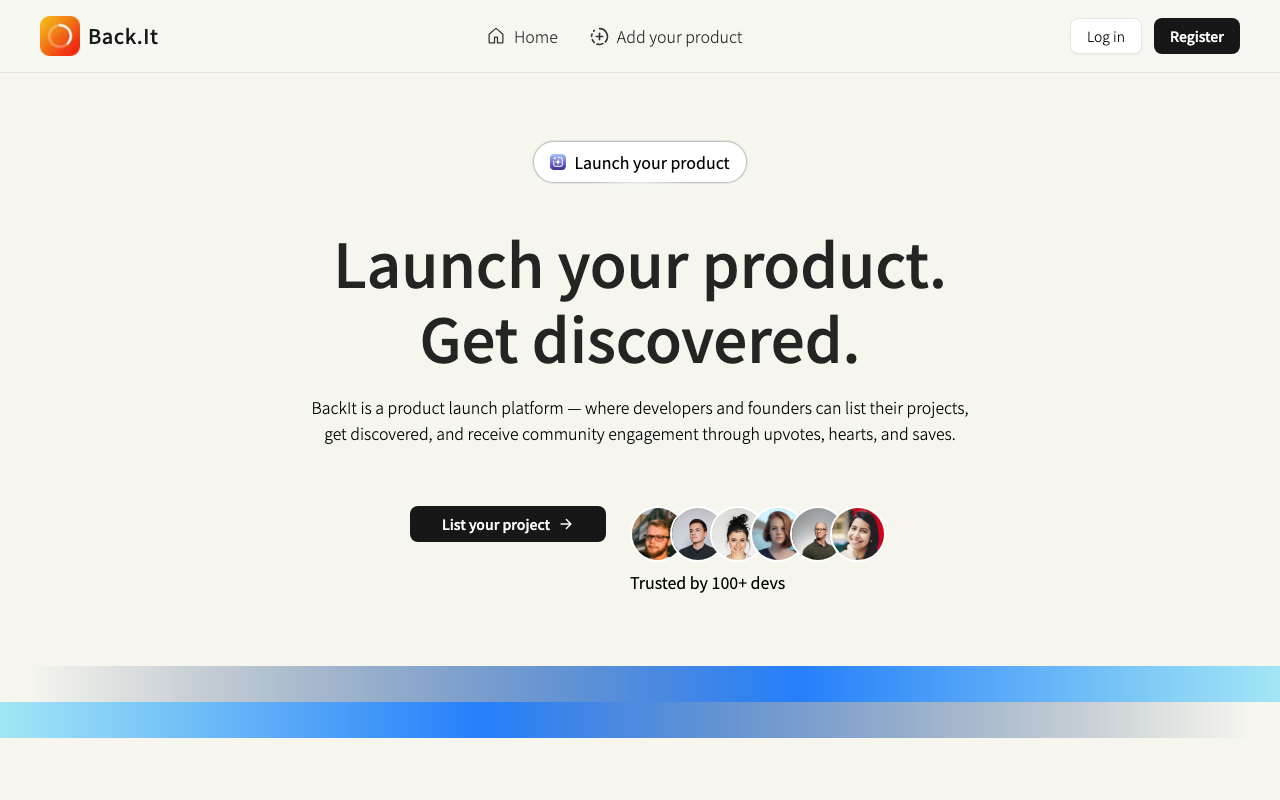
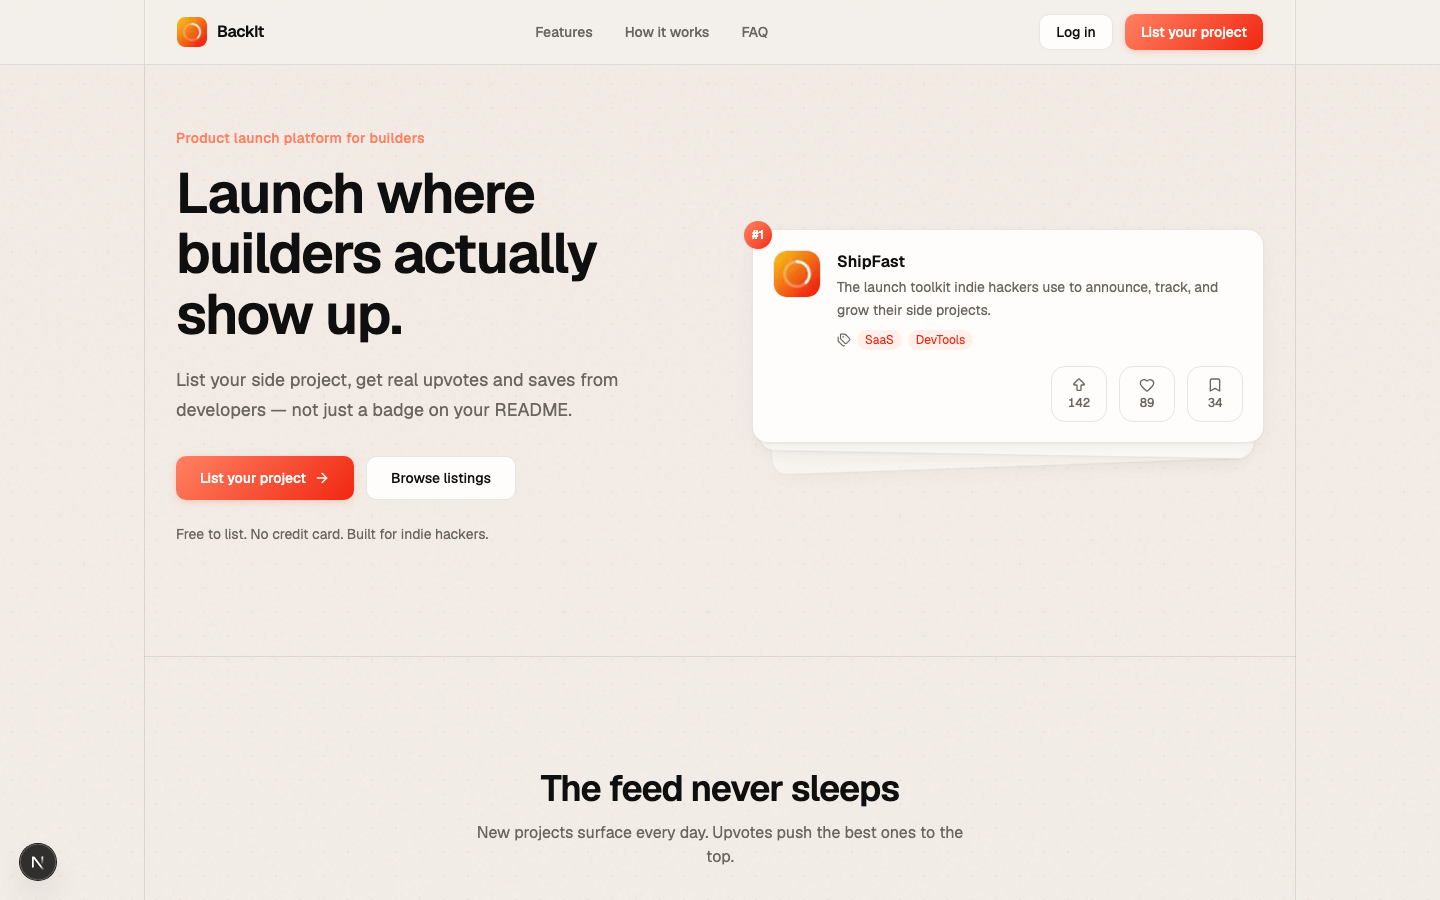
Refresh README previews and add screenshot capture tooling.
Update docs for the paper-design rollout with six new preview images, Geist/feature copy, and a Playwright script to regenerate screenshots.

diff --git a/README.md b/README.md
@@ -1,6 +1,6 @@
 <div align="center">
 
-<img src="public/BackIt.svg" alt="BackIt" width="72" />
+<img src="public/BackIt.png" alt="BackIt" width="72" />
 
 # BackIt
 
@@ -32,6 +32,16 @@ A product launch platform where developers and founders list projects, get disco
     <td><img src="docs/screenshots/listings.png" alt="BackIt listings feed" width="100%" /></td>
     <td><img src="docs/screenshots/signin.png" alt="BackIt sign in page" width="100%" /></td>
   </tr>
+  <tr>
+    <td align="center"><strong>Profile</strong></td>
+    <td align="center"><strong>Saved</strong></td>
+    <td align="center"><strong>Upload project</strong></td>
+  </tr>
+  <tr>
+    <td><img src="docs/screenshots/profile.png" alt="BackIt user profile" width="100%" /></td>
+    <td><img src="docs/screenshots/saved.png" alt="BackIt saved projects" width="100%" /></td>
+    <td><img src="docs/screenshots/upload.png" alt="BackIt upload project modal" width="100%" /></td>
+  </tr>
 </table>
 
 ## Features
@@ -43,11 +53,11 @@ A product launch platform where developers and founders list projects, get disco
 - **User profiles** — dashboard with engagement stats and your listed projects
 - **Saved projects** — bookmark projects and revisit them later
 - **Authentication** — JWT in httpOnly cookies with bcrypt-hashed passwords
-- **Dark mode** — system-aware theme with manual toggle
+- **Paper-style UI** — Geist typography, coral accent palette, and grid-frame layout across landing, auth, and dashboard
 
 ## Tech Stack
 
-Built with Next.js 16 App Router, React 19, TypeScript, Tailwind CSS 4, Prisma 7, PostgreSQL (Neon), TanStack Query, shadcn/ui, Zod, and Motion.
+Built with Next.js 16 App Router, React 19, TypeScript, Tailwind CSS 4, Geist, Prisma 7, PostgreSQL (Neon), TanStack Query, shadcn/ui, Zod, and Motion.
 
 <div align="center">
 
@@ -99,6 +109,9 @@ Open [http://localhost:3000](http://localhost:3000) in your browser.
 |----------|----------|-------------|
 | `DATABASE_URL` | Yes | PostgreSQL connection string (Neon recommended) |
 | `JWT_SECRET` | Yes | Secret for signing and verifying JWT tokens |
+| `SCREENSHOT_EMAIL` | No | Test account email for `bun run screenshots` |
+| `SCREENSHOT_PASSWORD` | No | Test account password for `bun run screenshots` |
+| `SCREENSHOT_BASE_URL` | No | Dev server URL for screenshots (default: `http://localhost:3000`) |
 
 ## Scripts
 
@@ -108,6 +121,17 @@ Open [http://localhost:3000](http://localhost:3000) in your browser.
 | `bun run build` | Generate Prisma client and create a production build |
 | `bun run start` | Start the production server |
 | `bun run lint` | Run ESLint |
+| `bun run screenshots` | Capture README preview screenshots (dev server must be running) |
+
+### Updating screenshots
+
+```bash
+# Add SCREENSHOT_EMAIL and SCREENSHOT_PASSWORD to .env, then:
+bun run dev
+bun run screenshots
+```
+
+If your dev server runs on a different port, set `SCREENSHOT_BASE_URL` (e.g. `http://localhost:3001`).
 
 ## Project Structure
 
@@ -117,11 +141,17 @@ BackIt/
 │   ├── (Authentication)/   # Sign in and sign up
 │   ├── (Dashboard)/        # Listings, profile, and saved pages
 │   └── api/                # REST API endpoints
-├── components/             # React components (UI, pages, forms)
+├── components/             # React components
+│   ├── landing/            # Landing page sections
+│   ├── AppShell.tsx        # Dashboard layout + grid rails
+│   ├── AppNavbar.tsx       # Unified dashboard nav
+│   ├── AuthShell.tsx       # Auth page layout
 │   └── ui/                 # shadcn/ui primitives
+├── docs/screenshots/       # README preview images
 ├── lib/                    # Auth, Prisma, ranking, React Query hooks
 ├── prisma/                 # Schema and migrations
 ├── public/                 # Static assets (logo, images)
+├── scripts/                # Utility scripts (screenshot capture)
 └── middleware.ts           # JWT auth middleware
 ```
 
@@ -160,5 +190,4 @@ BackIt is deployed on [Vercel](https://vercel.com/). To deploy your own instance
 **Ashish** — [GitHub](https://github.com/ashishxjhaa)
 
 ---
-
 
